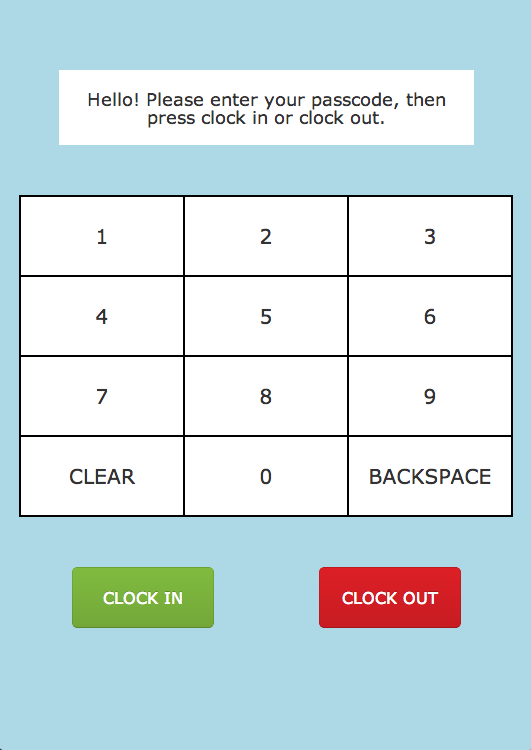
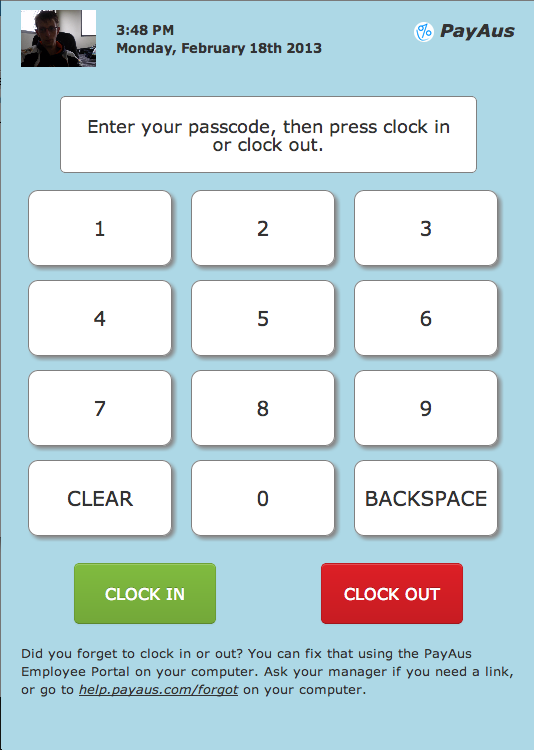
add forgot to clock in guide, update screenshots

Changed region(s): [[0.0, 0.0, 0.9642, 0.9507], [0.7533, 0.0307, 0.9642, 0.0613]]

diff --git a/_layouts/default.html b/_layouts/default.html
@@ -13,11 +13,13 @@
   {{ content }}
   <footer class="footer">
     <div class="container">
-      <p>PayAus is a powerful and easy-to-use hardware and cloud based system for rostering and timesheeting that will help you run your business more efficiently.</p>
+      <p>PayAus is a powerful and easy-to-use system for rostering and timesheeting that will help you run your business more efficiently.</p>
       <ul class="footer-links">
         <li><a href="http://www.payaus.com">Home</a></li>
         <li class="muted">·</li>
         <li><a href="http://www.payaus.com/about/us">About Us</a></li>
+        <li class="muted">·</li>
+        <li><a href="http://news.payaus.com">News</a></li>
         <li class="muted">·</li>
         <li><a href="http://www.payaus.com/users/sign_in">Log In</a></li>
         <li class="muted">·</li>

diff --git a/index.html b/index.html
@@ -1,6 +1,6 @@
 ---
 layout: guide
-subtitle: Whether you are just getting started, or are looking to push PayAus to its limits, we have all the help you need.<br />Missing something? <a href="http://www.payaus.com/quotes/new?from=help" target="_blank">Email us</a> for a quick answer.
+subtitle: Whether you are just getting started, or are looking to push PayAus to its limits, we have all the help you need.<br />Got a question? <a href="http://www.payaus.com/quotes/new?from=help" target="_blank">Email us</a> or tweet <a href="http://twitter.com/payauspayroll" target="_blank">@PayAusPayroll</a> for a quick answer.
 ---
 <div class="row-fluid">
   <div class="span4">

diff --git a/_posts/staff/2013-02-06-myob.md b/_posts/staff/2013-02-06-myob.md
@@ -16,7 +16,13 @@ Importing your staff from MYOB is a convenient alternative to entering their det
 
 ### Export Your Staff from MYOB
 
-PayAus can process staff information from a MYOB *employee card export*. The exact export process depends on your version of MYOB, but they are all similar. From the `File` menu of MYOB, look for a menu item that says `Export Data`, `Export Assistant`, or something similar. This should open a window, or wizard, in which you can follow the prompts to export your data. Your data will be exported into a `.txt` file, which you should save somewhere on your computer.
+PayAus can process staff information from a MYOB *employee card export*. The exact export process depends on your version of MYOB, but they are all similar.
+
+1. Go to the `File` menu.
+2. Click an item that says `Export Data`, `Export Assistant`, or similar.
+3. If prompted, select to export `Cards` data (as opposed to, say, accounts or jobs).
+4. Follow the prompts to export your data. Don't forget the [golden rules](#three_golden_rules).
+5. MYOB will give you a `.txt` file, which you should save somewhere on your computer.
 
 MYOB has more information on the export process on their support site:
 
@@ -29,7 +35,7 @@ There are three important rules to keep in mind when exporting your data;
 
 1. Ensure your file is **tab delimited**. This means the spaces between fields are separated by tabs (as opposed to commas). The default in MYOB AccountRight 2011 and later is commas; you *must* change it to tabs.
 2. Ensure your file **includes headers**. This means the first row if the output file will contain the field headers, rather than field values. In most MYOB versions this is enabled by default, but you *should* double check.
-3. Ensure your file includes all **fields required by PayAus**. PayAus uses standard MYOB fields, so it's probably safest just to select all. If you do want to specify fields, just make sure you include these ones:
+3. Ensure your file includes all **fields required by PayAus**. PayAus uses standard MYOB fields, so it's probably safest just to select all. If you do want to specify fields, just **make sure you include these ones**:
 	* First Name
 	* Co./Last Name
 	* Salary/Rate

diff --git a/_posts/portals/2013-02-06-employee.md b/_posts/portals/2013-02-06-employee.md
@@ -1,0 +1,26 @@
+---
+layout: guide
+title: I Forgot To Clock In!
+categories: ['portals']
+sort: 2
+alias: /forgot
+---
+
+Did you forget to clock in at the start of your shift? Maybe you forgot to clock out when you went on your lunch break. **Don't panic** &mdash; it's really easy to fix this using the PayAus Employee Portal.
+
+You might have seen the portal before. It looks like this:
+
+![The web portal](/img/portals/web_portal.png)
+
+Just enter in your passcode (the same code you would enter into the terminal on the wall), and the date and time you were meant to clock in or out. The portal will do the rest.
+
+The portal is hidden behind a randomly generated URL, which means you'll need to get a link to it so you can actually use it. You can get this link from anyone who is able to log in to [www.payaus.com](http://www.payaus.com). Once they (or you, if you are able to log in) are logged in to [payaus.com](http://www.payaus.com), go to the menu in the top right hand corner. You should see a link to the **Employee Clock-in Portal**. Easy!
+
+![The web portal in the site navigation](/img/portals/portal_nav.png)
+
+You should add the portal to your bookmarks in case you need to visit it again. How? That depends on your web browser, but these guides should help:
+
+* [Google Chrome](http://support.google.com/chrome/bin/answer.py?hl=en&answer=95739)
+* [Mozilla Firefox](http://support.mozilla.org/en-US/kb/use-bookmarks-to-save-and-organize-websites#w_how-do-i-create-a-bookmark)
+* [Internet Explorer](http://windows.microsoft.com/en-AU/internet-explorer/add-view-organize-favorites#ie=ie-10)
+* [Safari (on a Mac)](http://www.apple.com/findouthow/mac/#bookmark)

diff --git a/_posts/portals/2013-02-06-app.md b/_posts/portals/2013-02-06-app.md
@@ -1,9 +1,9 @@
 ---
 published: false
 layout: guide
-title: Employee Portal
+title: App Portal
 categories: ['portals']
 sort: 3
 ---
 
-the employee portal (forgot to clock in)
+the app portal (tablet)
